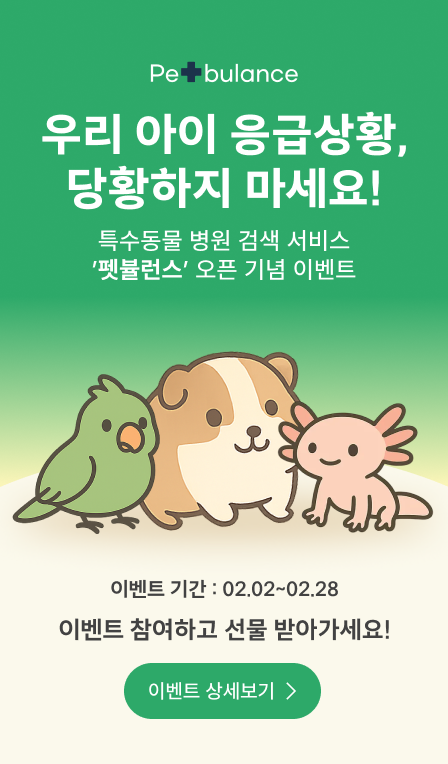
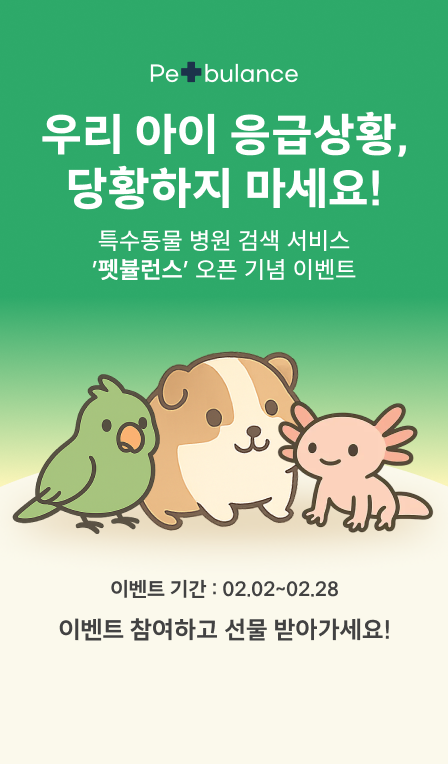
refactor : 수정

Changed region(s): [[0.2812, 0.8429, 0.7188, 0.9634]]

diff --git a/src/pages/user/community/CommunityPage.jsx b/src/pages/user/community/CommunityPage.jsx
@@ -1,22 +1,21 @@
-import communityComingSoon from '@/assets/images/pageImages/community-coming-soon.svg';
+import communityComingSoon from '@/assets/images/pageImages/community-coming-soon.png';
 
 export default function CommunityPage() {
   return (
-    <div className="mt-50 flex flex-col px-6 text-center">
-      <div className="flex items-center justify-center">
-        <img
-          src={communityComingSoon}
-          alt="커뮤니티 준비중"
-          className="w-40 max-w-full"
-        />
-      </div>
-
-      <div className="mt-5">
-        <h2 className="text-tertiary text-base font-semibold">
+    <div className="mt-10 flex flex-col px-6 text-center">
+      <div className="mt-8">
+        <h2 className="text-base font-semibold text-[#2DA969]">
           커뮤니티 기능 준비중이에요!
         </h2>
 
         <p className="text-tertiary mt-3 text-sm">빠른 시일 내에 찾아뵐게요.</p>
+      </div>
+      <div className="mt-[10px] flex items-center justify-center">
+        <img
+          src={communityComingSoon}
+          alt="커뮤니티 준비중"
+          className="w-full max-w-full"
+        />
       </div>
     </div>
   );

diff --git a/src/components/commons/banner/index.jsx b/src/components/commons/banner/index.jsx
@@ -12,7 +12,7 @@ export function ServiceBanner() {
       {/* 버튼 영역 */}
       <button
         onClick={() => navigate('/event/open')} // 이동할 경로
-        className="absolute bottom-8 left-1/2 -translate-x-1/2 rounded-full bg-[#2DA969] px-6 py-2 text-sm font-semibold text-white hover:bg-emerald-700"
+        className="absolute bottom-13 left-1/2 -translate-x-1/2 rounded-full bg-[#2DA969] px-6 py-2 text-[20px] font-semibold text-white hover:bg-emerald-700"
       >
         이벤트 상세보기 →
       </button>

diff --git a/src/pages/user/auth/KakaoCallback.jsx b/src/pages/user/auth/KakaoCallback.jsx
@@ -33,7 +33,7 @@ export default function KakaoCallback() {
           authCode: res.data.access_token,
         });
         console.log('데이터', JWTres);
-        localStorage.setItem('access_token', JWTres.data.access_token);
+        localStorage.setItem('access_token', JWTres.data.data.accessToken);
         navigate('/index/auth/signupcomplete');
       } catch (e) {
         console.error('카카오 로그인 실패', e);
